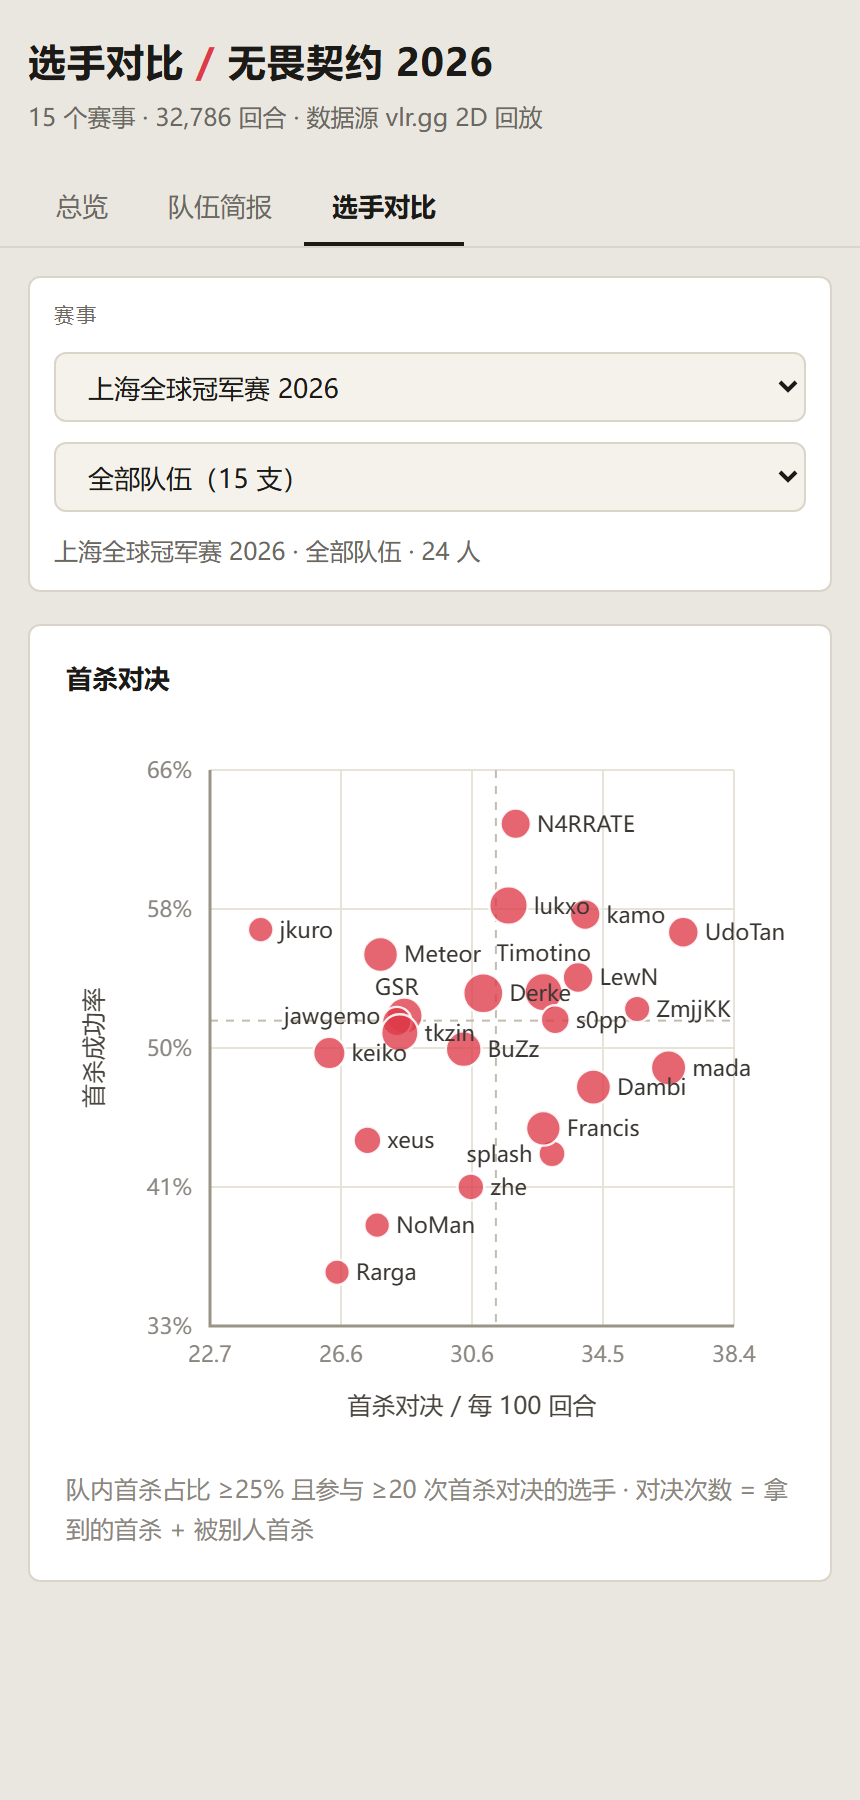
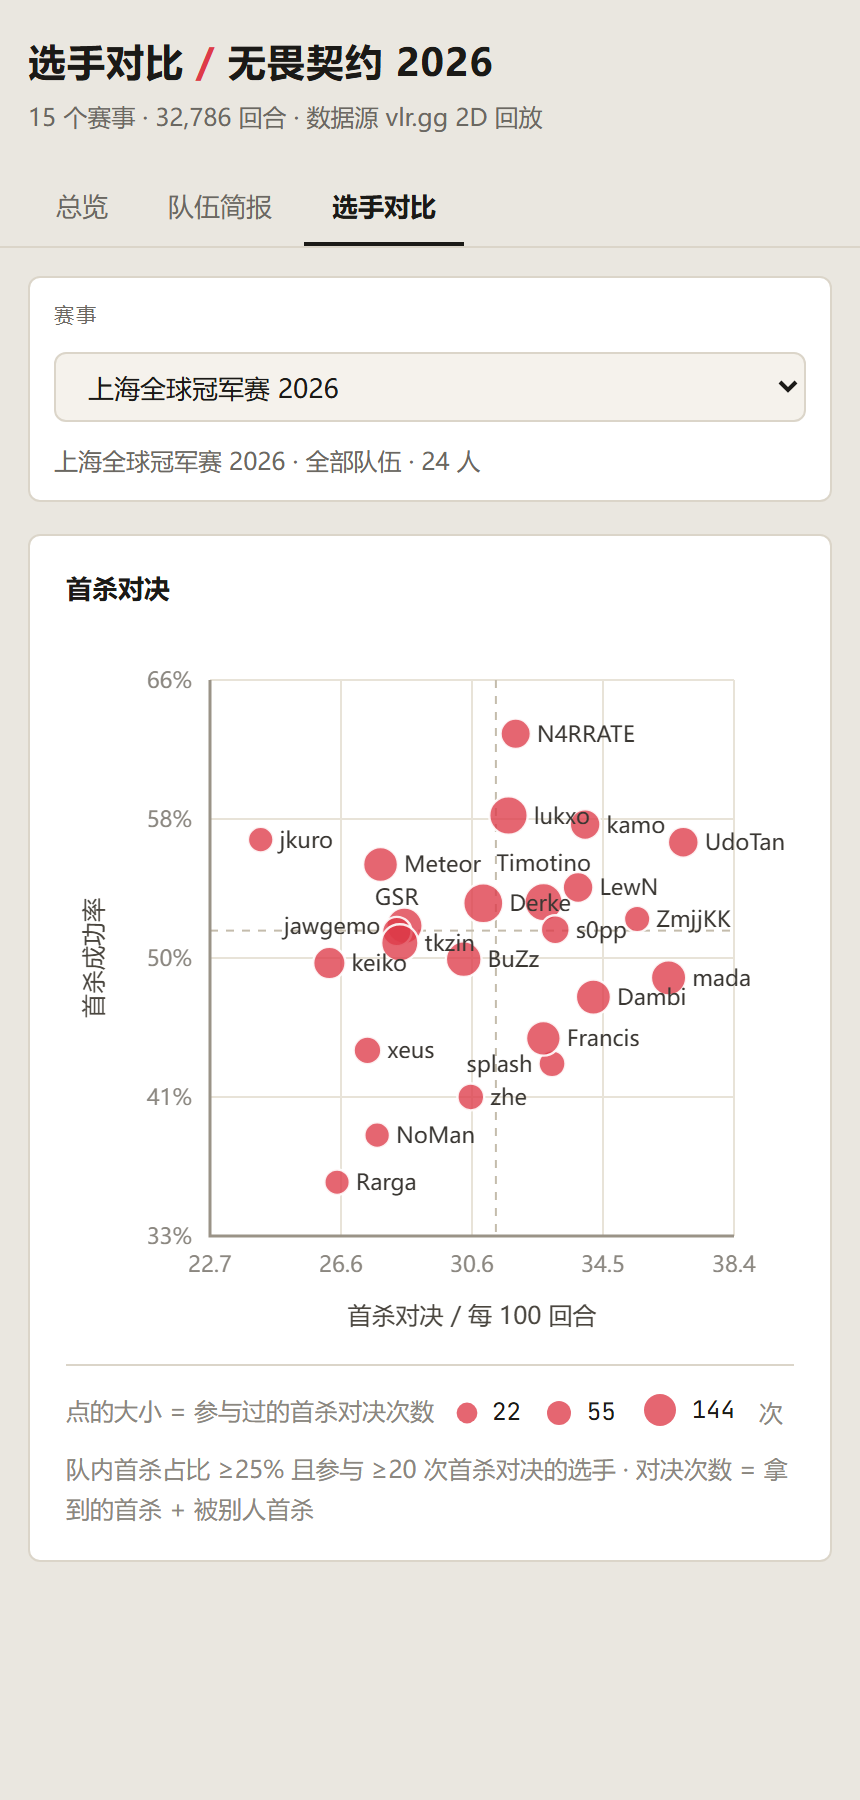
refactor: 选手对比去掉队伍筛选；给红点大小加图例
- 删掉 #teamSel（'全部队伍（15 支）'）：赛事内的选手对比不需要再按队切，
  只剩一个赛事下拉，筛选栏不再有两个同级控件
- 点的大小原来没任何说明。现在抽成 radiusOf()，图例从当前赛事的真实数据里
  取 min/中位/max 三档画出来，尺寸和图上完全一致，不是示意图
- 半径公式注释写明：sqrt 缩面积不缩直径，面积正比于 n

91/92/65/94: 12/17/39/46 passed, 0 failed

diff --git a/site/duel.html b/site/duel.html
@@ -57,6 +57,25 @@
   .duelwrap{position:relative; width:100%; overflow:hidden}
   #duelCanvas{display:block; max-width:100%}
 
+  /* 点大小图例：直接用当前数据里的真实直径画，不是示意图 */
+  .dotlegend{
+    display:flex; align-items:center; gap:16px; flex-wrap:wrap;
+    margin-top:2px; padding-top:12px; border-top:1px solid var(--line);
+    font-size:12px; color:var(--dim);
+  }
+  .dotlegend .lg-cap{color:var(--dim2)}
+  .dotlegend .lg-items{display:flex; align-items:flex-end; gap:16px}
+  .dotlegend .lg-i{display:flex; align-items:center; gap:6px}
+  .dotlegend .lg-dot{
+    display:inline-block; border-radius:50%; background:#DE3B49; opacity:.78;
+    flex:0 0 auto;
+  }
+  .dotlegend .lg-n{
+    font-family:'JetBrains Mono',ui-monospace,Consolas,monospace;
+    font-variant-numeric:tabular-nums; color:var(--fg);
+  }
+  .dotlegend .lg-u{color:var(--dim2)}
+
   .note{margin-top:10px; font-size:12px; color:var(--dim2); line-height:1.6}
 
   @media (max-width:760px){
@@ -66,6 +85,10 @@
     .bar{padding:11px 12px; gap:10px}
     select{min-width:0; width:100%}
     .hint{margin-left:0; width:100%}
+    .dotlegend{gap:10px}
+    .dotlegend .lg-items{gap:12px}
+    /* 图例的点按真实直径画，窄屏放不下时按 0.8 缩一档但保持三档比例 */
+    .dotlegend .lg-dot{transform:scale(.8)}
   }
 </style>
 </head>
@@ -87,7 +110,6 @@
   <div class="bar">
     <label>赛事</label>
     <select id="evSel"></select>
-    <select id="teamSel" title="只看一支队"></select>
     <span class="hint" id="scope"></span>
   </div>
 
@@ -98,6 +120,7 @@
     <div class="duelwrap">
       <canvas id="duelCanvas" width="1200" height="760"></canvas>
     </div>
+    <div class="dotlegend" id="dotLegend"></div>
     <div class="note" id="caption"></div>
   </div>
 </main>
@@ -124,7 +147,7 @@ const MIN_SHARE = 25;      // 且队内首杀占比至少这么高
 const DOT_COLOR = '#DE3B49';
 
 let S = { raw: null, D: null, Z: null, M: null, agents: {} };
-let state = { ev: 0, team: -1 };
+let state = { ev: 0 };
 
 const $ = id => document.getElementById(id);
 
@@ -194,6 +217,36 @@ function median(a){
   return s.length % 2 ? s[m] : (s[m-1] + s[m]) / 2;
 }
 
+/* 点半径只表示样本量（参与过的首杀对决次数 n）。
+   用 sqrt 缩面积而不是缩直径：面积正比于 n，读者对「面积大 = 数量多」的直觉才成立。
+   最小 4px 保证 n 很小的点也看得见，最大 10px 不让大点盖住邻居。 */
+const R_MIN = 4, R_MAX = 10;
+const radiusOf = (n, maxN) => R_MIN + (R_MAX - R_MIN) * Math.sqrt(n / maxN);
+
+/* 图例：从当前这一屏的真实数据里挑几档 n 画出来，尺寸和图上完全一致 */
+function renderDotLegend(pts, maxN){
+  const box = $('dotLegend');
+  if(!pts || pts.length < 2){ box.innerHTML = ''; return; }
+
+  const ns = pts.map(p => p.n).sort((a,b) => a - b);
+  const picks = [];
+  for(const f of [0, 0.5, 1]){
+    const v = ns[Math.round(f * (ns.length - 1))];
+    if(!picks.includes(v)) picks.push(v);
+  }
+
+  const items = picks.map(n => {
+    const d = Math.round(2 * radiusOf(n, maxN));
+    return `<span class="lg-i">
+        <i class="lg-dot" style="width:${d}px;height:${d}px"></i>
+        <span class="lg-n">${n}</span>
+      </span>`;
+  }).join('');
+
+  box.innerHTML = `<span class="lg-cap">点的大小<span class="lg-u"> = 参与过的首杀对决次数</span></span>
+    <span class="lg-items">${items}<span class="lg-u">次</span></span>`;
+}
+
 function draw(){
   const cv = $('duelCanvas');
   const holder = cv.parentElement;
@@ -214,16 +267,15 @@ function draw(){
   const evName = S.Z.events[S.D.events[state.ev]] || S.D.events[state.ev];
 
   let pts = build(state.ev);
-  if(state.team >= 0) pts = pts.filter(p => p.team === state.team);
 
-  const scope = state.team >= 0 ? S.D.teams[state.team] : '全部队伍';
-  $('scope').textContent = `${evName} · ${scope} · ${pts.length} 人`;
+  $('scope').textContent = `${evName} · 全部队伍 · ${pts.length} 人`;
 
   if(pts.length < 2){
     ctx.fillStyle = '#8B8780';
     ctx.font = '13px system-ui'; ctx.textAlign = 'center';
-    ctx.fillText('这个范围进入筛选的选手不足 2 人', cw/2, ch/2);
+    ctx.fillText('这个赛事进入筛选的选手不足 2 人', cw/2, ch/2);
     $('caption').textContent = '';
+    renderDotLegend([], 1);
     chartPts = [];
     return;
   }
@@ -273,10 +325,10 @@ function draw(){
   ctx.moveTo(L, T); ctx.lineTo(L, T + ph); ctx.lineTo(L + pw, T + ph);
   ctx.stroke();
 
-  // 点
+  // 点：半径 = 样本量（参与过多少次首杀对决）
   const maxN = Math.max(...pts.map(p => p.n));
   for(const p of pts){
-    const r = 4 + 6 * Math.sqrt(p.n / maxN);
+    const r = radiusOf(p.n, maxN);
     ctx.beginPath(); ctx.arc(px(p.per100), py(p.rate), r, 0, Math.PI * 2);
     ctx.fillStyle = DOT_COLOR;
     ctx.globalAlpha = 0.78; ctx.fill(); ctx.globalAlpha = 1;
@@ -292,7 +344,7 @@ function draw(){
   const hits = (bx, by, bw, bh) => placed.some(q =>
     bx < q.x + q.w && bx + bw > q.x && by < q.y + q.h && by + bh > q.y);
   for(const p of labelled){
-    const r = 4 + 6 * Math.sqrt(p.n / maxN);
+    const r = radiusOf(p.n, maxN);
     const cx = px(p.per100), cy = py(p.rate);
     const tw = ctx.measureText(p.name).width;
     const cands = [
@@ -317,6 +369,8 @@ function draw(){
   ctx.save(); ctx.translate(18, T + ph/2); ctx.rotate(-Math.PI/2);
   ctx.fillText('首杀成功率', 0, 0); ctx.restore();
 
+  renderDotLegend(pts, maxN);
+
   $('caption').textContent =
     `队内首杀占比 ≥${MIN_SHARE}% 且参与 ≥${MIN_TRIES} 次首杀对决的选手`
     + ` · 对决次数 = 拿到的首杀 + 被别人首杀`;
@@ -328,18 +382,7 @@ function fillEvents(){
   sel.innerHTML = S.D.events.map((e, i) =>
     `<option value="${i}">${S.Z.events[e] || e}</option>`).join('');
   sel.value = String(state.ev);
-  sel.onchange = () => { state.ev = +sel.value; state.team = -1; fillTeams(); draw(); };
-}
-
-function fillTeams(){
-  const sel = $('teamSel');
-  const pts = build(state.ev);
-  const ids = [...new Set(pts.map(p => p.team))].sort(
-    (a, b) => S.D.teams[a].localeCompare(S.D.teams[b]));
-  sel.innerHTML = `<option value="-1">全部队伍（${ids.length} 支）</option>` +
-    ids.map(t => `<option value="${t}">${S.D.teams[t]}</option>`).join('');
-  sel.value = String(state.team);
-  sel.onchange = () => { state.team = +sel.value; draw(); };
+  sel.onchange = () => { state.ev = +sel.value; draw(); };
 }
 
 let resizeTimer = null;
@@ -362,7 +405,6 @@ async function boot(){
     `${S.D.events.length} 个赛事 · ${S.M.rounds.toLocaleString('en-US')} 回合 · 数据源 vlr.gg 2D 回放`;
 
   fillEvents();
-  fillTeams();
   draw();
 }
 
